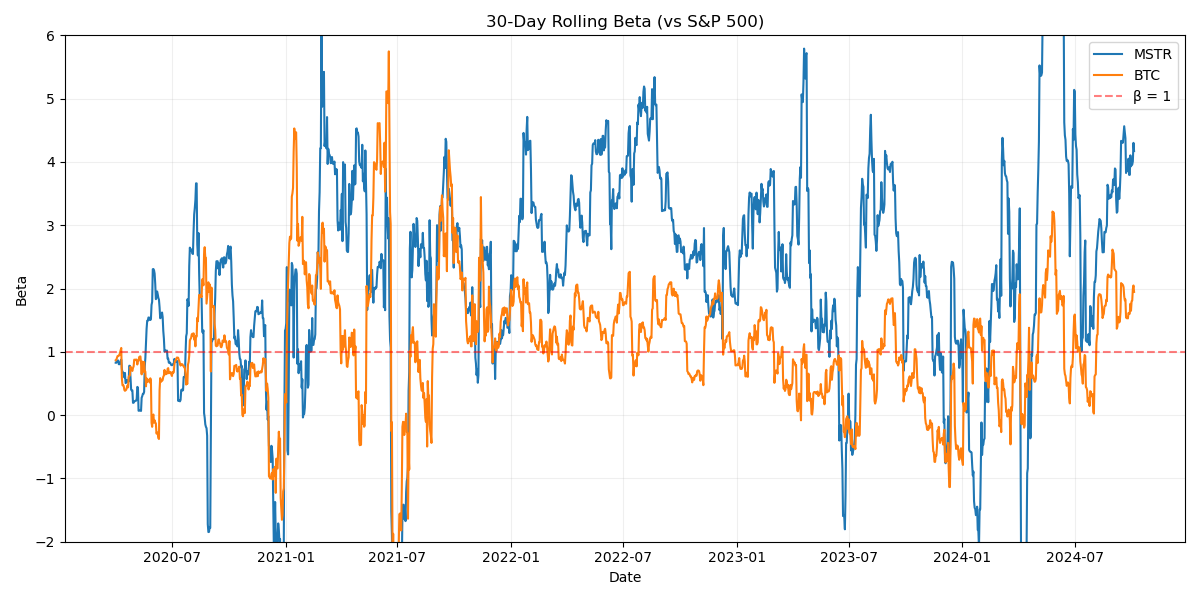
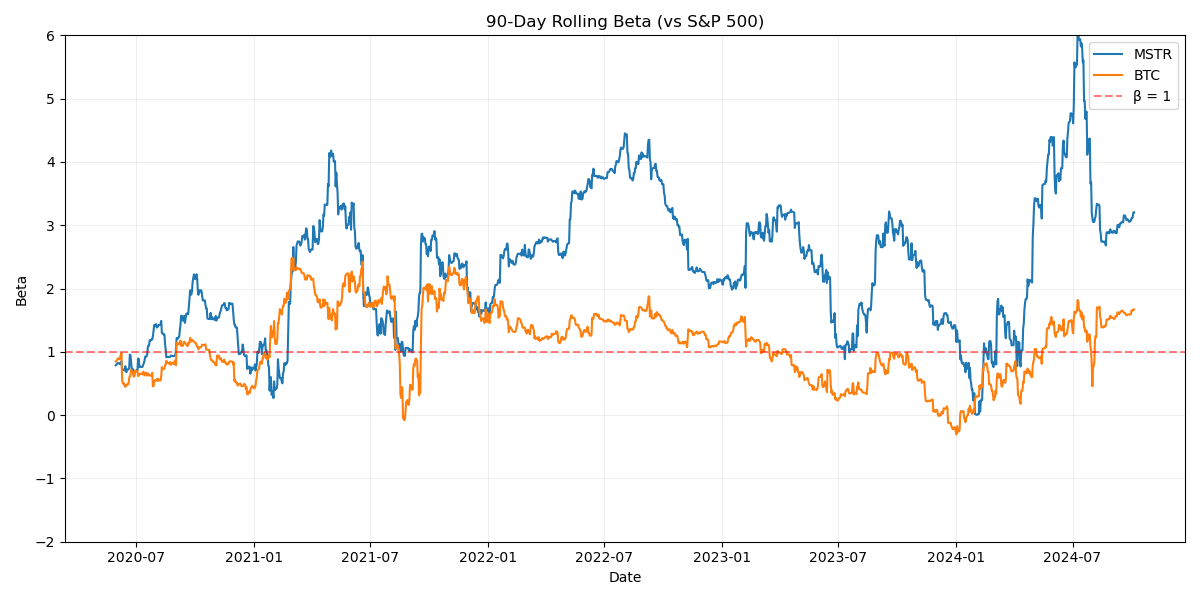
'window90'

diff --git a/src/stats.py b/src/stats.py
@@ -48,7 +48,7 @@ def plot_cumulative_returns(returns, title, output_dir):
     plt.savefig(os.path.join(output_dir, 'cumulative_returns_log.png'))
     plt.close()
 
-def plot_rolling_beta(returns, market_returns, window=30, output_dir=None):
+def plot_rolling_beta(returns, market_returns, window=90, output_dir=None):
     rolling_covariance = returns.rolling(window=window).cov(market_returns)
     rolling_market_variance = market_returns.rolling(window=window).var()
     rolling_beta = rolling_covariance / rolling_market_variance
@@ -67,7 +67,7 @@ def plot_rolling_beta(returns, market_returns, window=30, output_dir=None):
     plt.savefig(os.path.join(output_dir, 'rolling_beta.png'))
     plt.close()
 
-def plot_rolling_volatility(returns, window=30, output_dir=None):
+def plot_rolling_volatility(returns, window=90, output_dir=None):
     rolling_vol = returns.rolling(window=window).std() * np.sqrt(252)
     plt.figure(figsize=(12, 6))
     for col in rolling_vol.columns:
@@ -82,7 +82,7 @@ def plot_rolling_volatility(returns, window=30, output_dir=None):
     plt.savefig(os.path.join(output_dir, 'rolling_volatility.png'))
     plt.close()
 
-def plot_rolling_correlation(returns, window=30, output_dir=None):
+def plot_rolling_correlation(returns, window=90, output_dir=None):
     plt.figure(figsize=(12, 6))
     for i in range(len(returns.columns)):
         for j in range(i+1, len(returns.columns)):
@@ -100,7 +100,7 @@ def plot_rolling_correlation(returns, window=30, output_dir=None):
     plt.savefig(os.path.join(output_dir, 'rolling_correlation.png'))
     plt.close()
 
-def plot_rolling_sharpe_ratio(returns, risk_free_rate=0.02, window=30, output_dir=None):
+def plot_rolling_sharpe_ratio(returns, risk_free_rate=0.02, window=90, output_dir=None):
     excess_returns = returns - risk_free_rate / 252
     rolling_mean = excess_returns.rolling(window=window).mean()
     rolling_std = excess_returns.rolling(window=window).std()
@@ -119,7 +119,7 @@ def plot_rolling_sharpe_ratio(returns, risk_free_rate=0.02, window=30, output_di
     plt.savefig(os.path.join(output_dir, 'rolling_sharpe_ratio.png'))
     plt.close()
 
-def plot_rolling_beta(returns, market_returns, window=30, output_dir=None):
+def plot_rolling_beta(returns, market_returns, window=90, output_dir=None):
     asset_cols = [col for col in returns.columns if col != 'SP500']
     rolling_betas = pd.DataFrame(index=returns.index)
     
